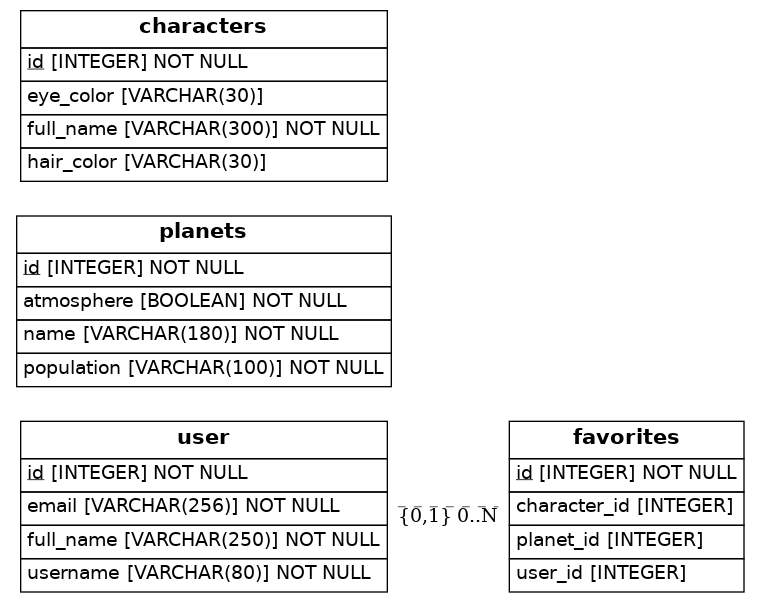
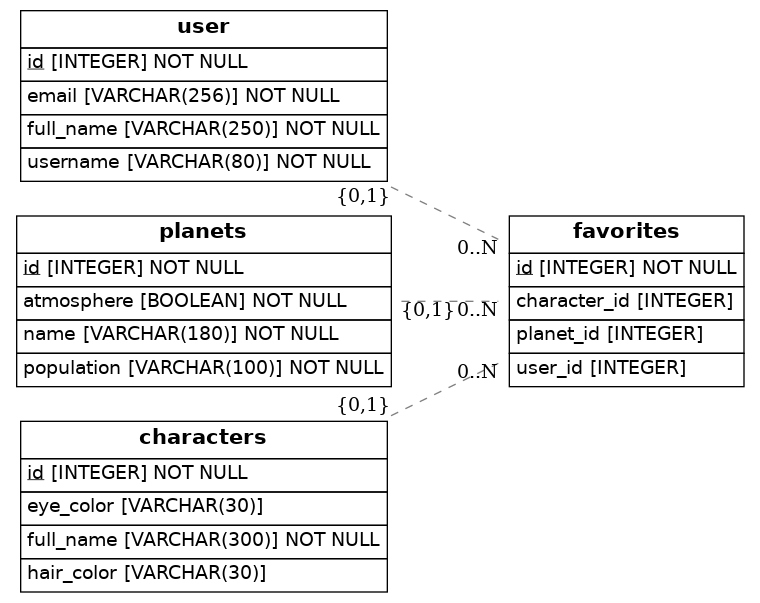
Relaciones entre entidades planets-favorites y characters-favorites corregidas

diff --git a/src/models.py b/src/models.py
@@ -40,10 +40,10 @@ class Favorites(Base):
     user_id = Column(Integer, ForeignKey('user.id'))
     users = relationship(Users)
 
-    planet_id = Column(Integer, ForeignKey('planet.id'))
+    planet_id = Column(Integer, ForeignKey('planets.id'))
     planets = relationship(Planets)
 
-    character_id = Column(Integer, ForeignKey('character.id'))
+    character_id = Column(Integer, ForeignKey('characters.id'))
     characters = relationship(Characters)
     
 
